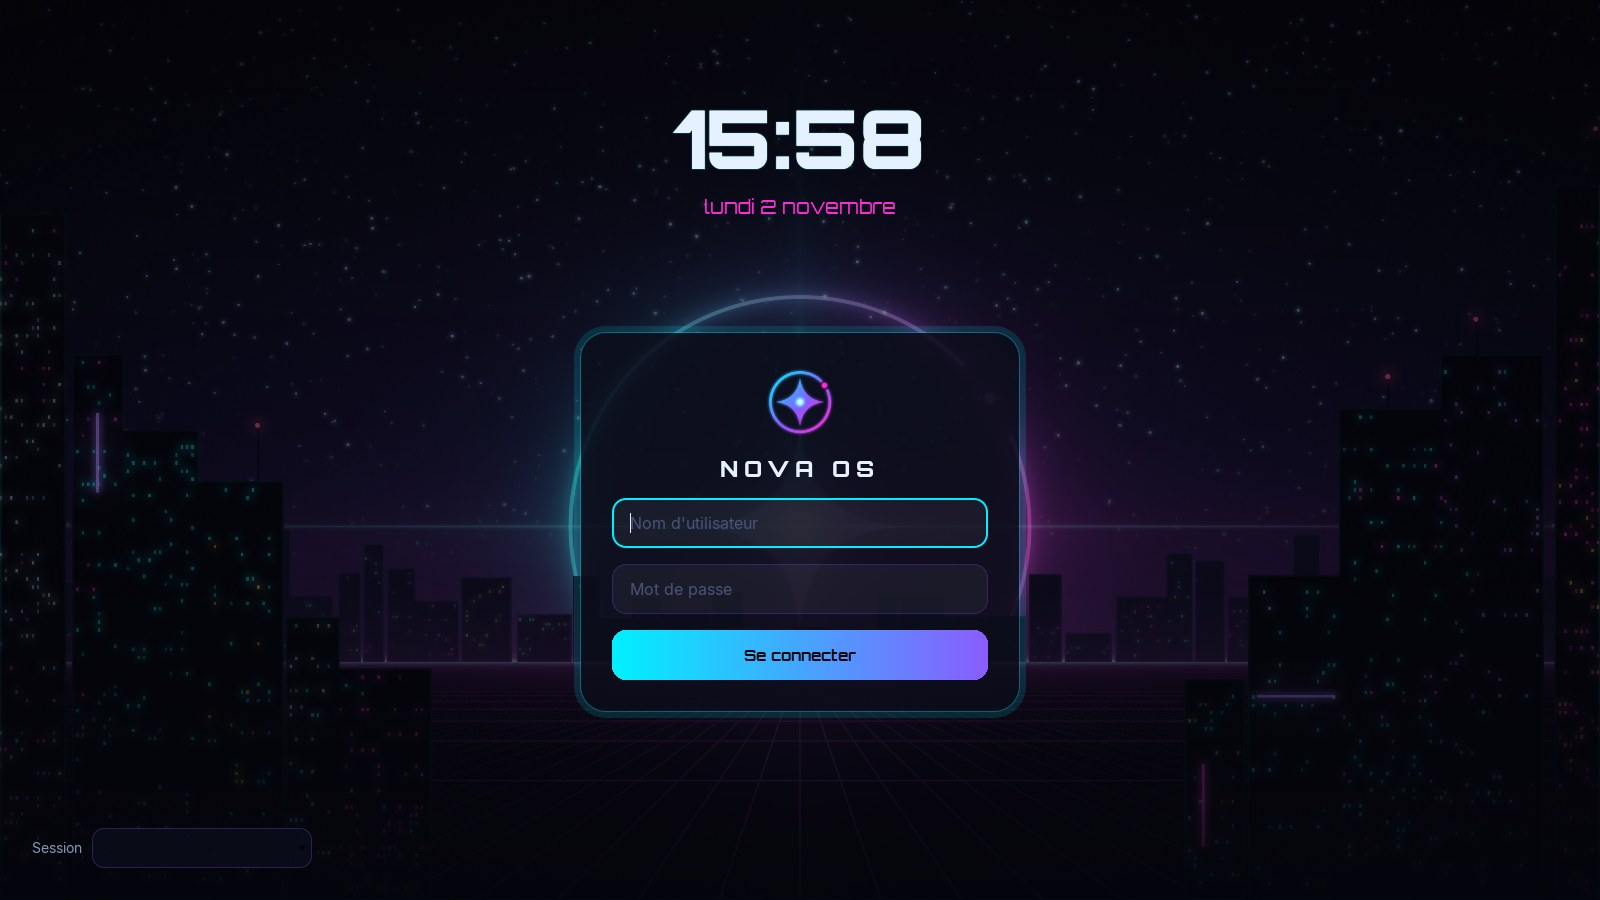
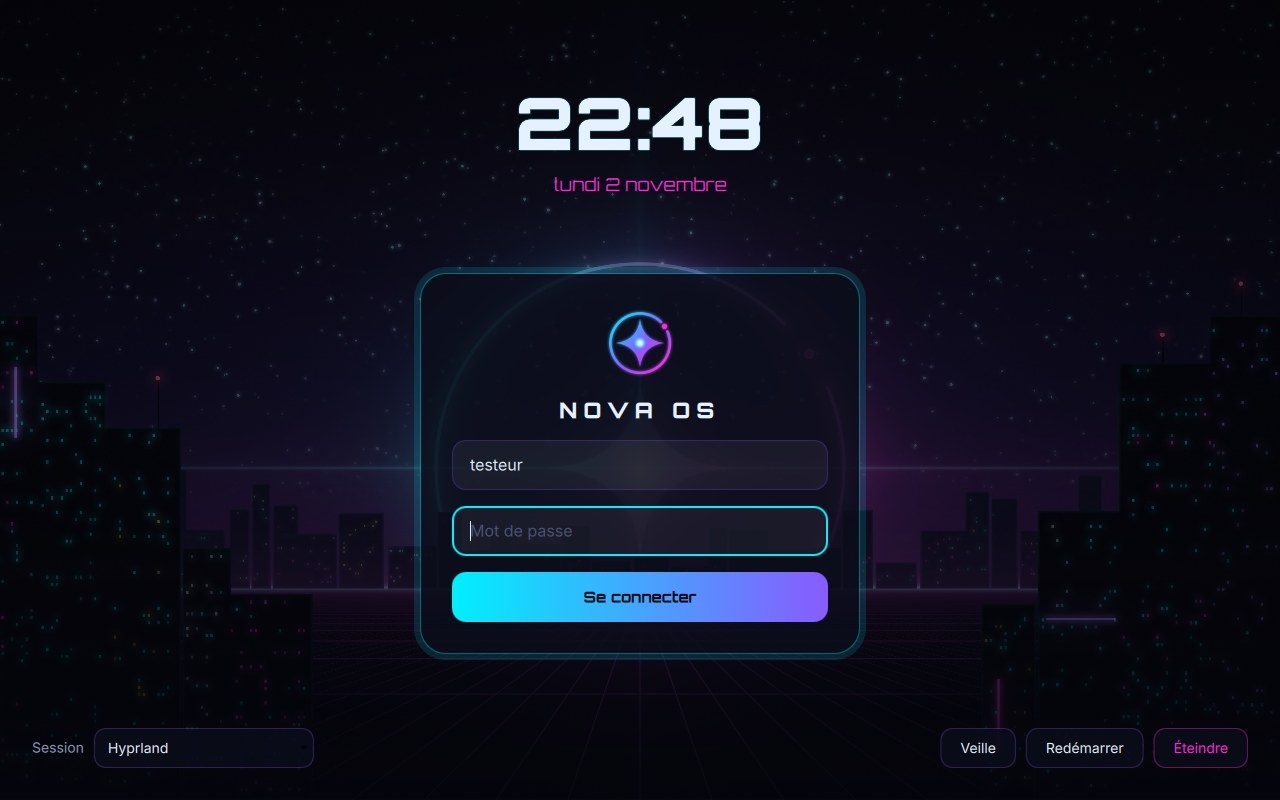
Docs : vraies captures de Nova installé (menu, connexion, bureau, session d'essai)
Claude-Session: https://claude.ai/code/session_01THVCaEsHSyQ6D7PDSSfmma

diff --git a/README.md b/README.md
@@ -16,8 +16,10 @@
 
 | | |
 |---|---|
-| ![Menu de démarrage](docs/screenshots/menu-demarrage.jpg) | ![Écran de connexion](docs/screenshots/connexion.jpg) |
-| ![Bureau et lanceur](docs/screenshots/lanceur.jpg) | ![Nova, l'assistant IA](docs/screenshots/assistant-nova.jpg) |
+| ![Menu de démarrage, avec Windows](docs/screenshots/menu-demarrage.jpg) | ![Écran de connexion](docs/screenshots/connexion.jpg) |
+| ![Bureau Nova et l'assistant](docs/screenshots/bureau.jpg) | ![Session d'essai sur clé USB](docs/screenshots/session-essai.jpg) |
+
+<sub>Captures prises automatiquement à chaque version : Nova installé à côté de Windows dans une machine virtuelle, puis démarré.</sub>
 
 ## Ce que Nova OS apporte
 
